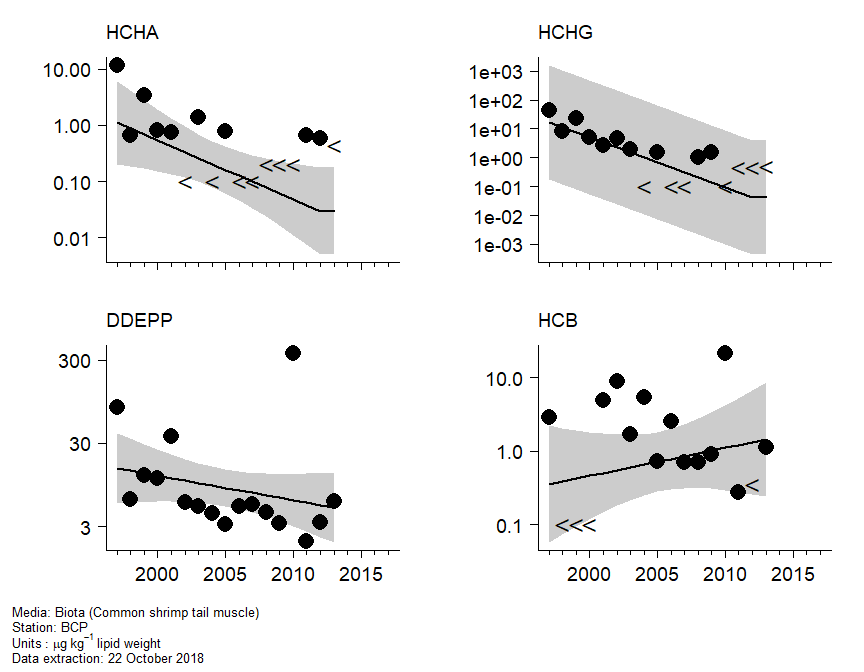
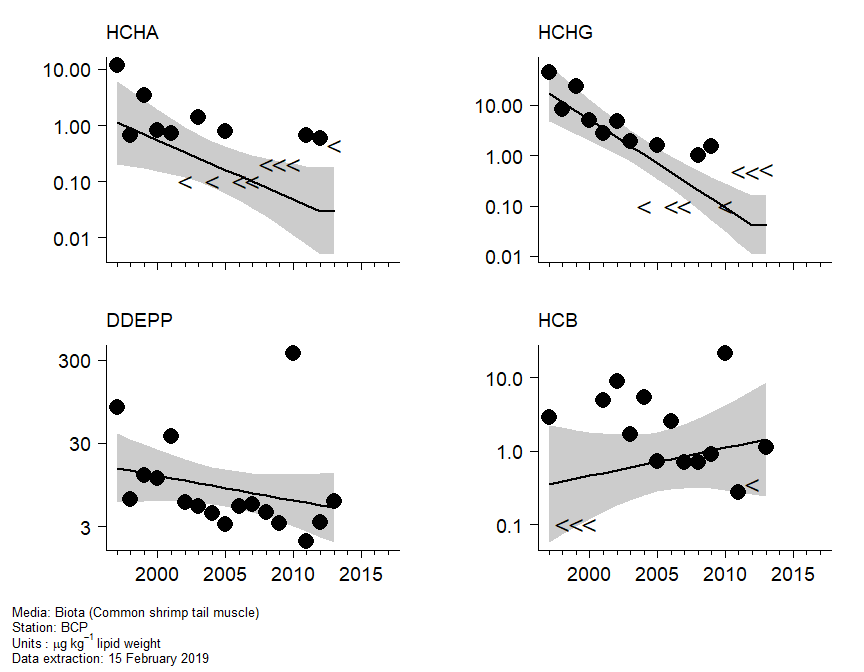
update readme with new dataset

Changed region(s): [[0.5312, 0.0938, 0.9062, 0.4062], [0.125, 0.9688, 0.25, 1.0], [0.0625, 0.1562, 0.0938, 0.2188]]

diff --git a/README.md b/README.md
@@ -53,10 +53,10 @@ variance
 
 ``` 
                 Df      AIC     AICc   Log lik Deviance     Chisq Chi df Pr(>Chisq)
-mean             1 204.6793 206.9293 -99.33965 198.6793        NA     NA         NA
-linear           2 202.0944 206.6659 -97.04722 194.0944 4.5848626      1 0.03225556
-smooth (df = 2)  3 198.5983 206.9317 -94.29917 188.5983 5.4960856      1 0.01905909
-smooth (df = 3)  4 199.7584 214.1584 -93.87920 187.7584 0.8399548      1 0.35940969
+mean             1 204.5347 206.7847 -99.26734 198.5347        NA     NA         NA
+linear           2 201.9493 206.5207 -96.97464 193.9493 4.5854093      1 0.03224527
+smooth (df = 2)  3 198.4669 206.8003 -94.23347 188.4669 5.4823321      1 0.01920961
+smooth (df = 3)  4 199.6460 214.0460 -93.82299 187.6460 0.8209623      1 0.36489896
 ```
 
 <br>
@@ -65,9 +65,9 @@ Change in log
 concentration
 
 ``` 
-              Year start Year end  Fit start  Fit end    Change Std error         t   Pr(>|t|)
-overall             1997     2013  0.1100925 -3.52615 -3.636243  1.610459 -2.257893 0.05034969
-last 20 years       1998     2013 -0.1323237 -3.52615 -3.393827  1.503095 -2.257893 0.05034969
+              Year start Year end  Fit start   Fit end    Change Std error         t   Pr(>|t|)
+overall             1997     2013  0.1113085 -3.522523 -3.633832  1.606903 -2.261388 0.05006289
+last 20 years       1998     2013 -0.1309469 -3.522523 -3.391576  1.499776 -2.261388 0.05006289
 ```
 
 <br>
